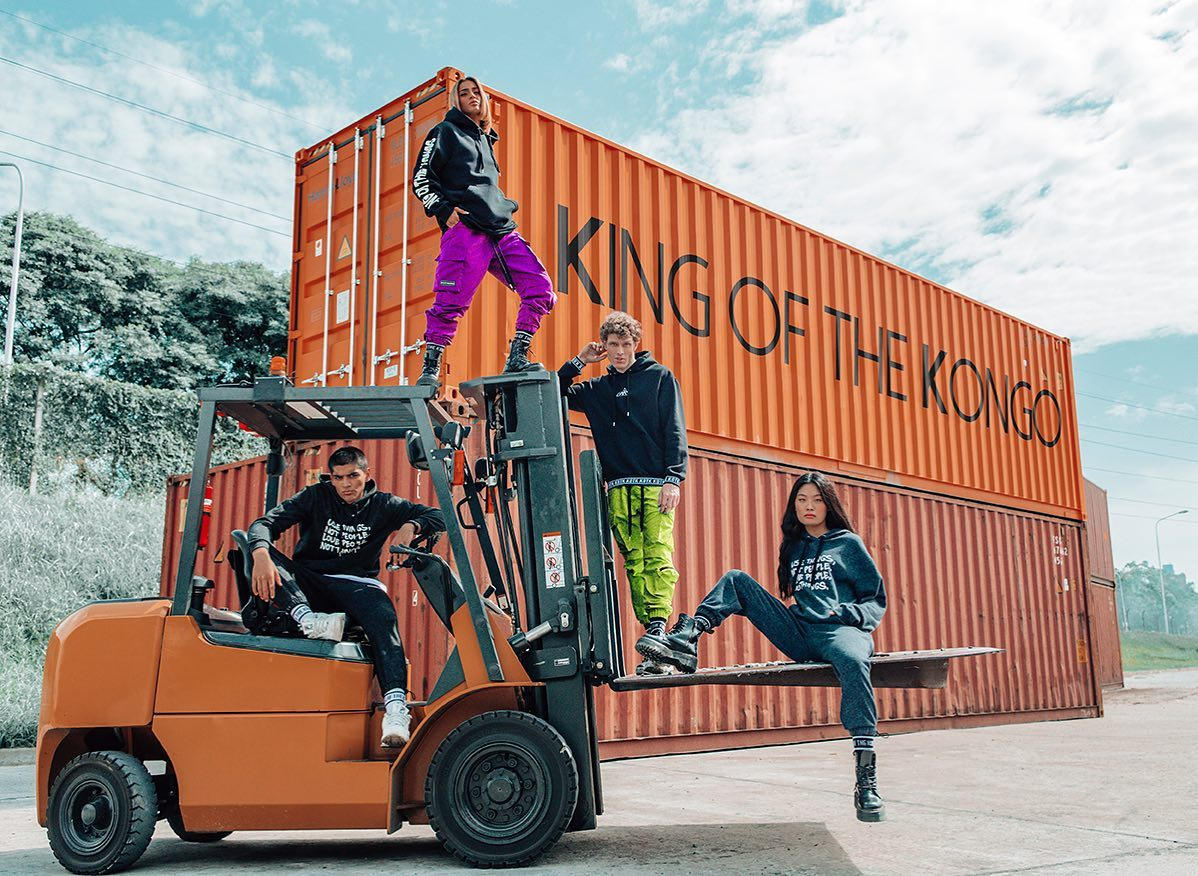
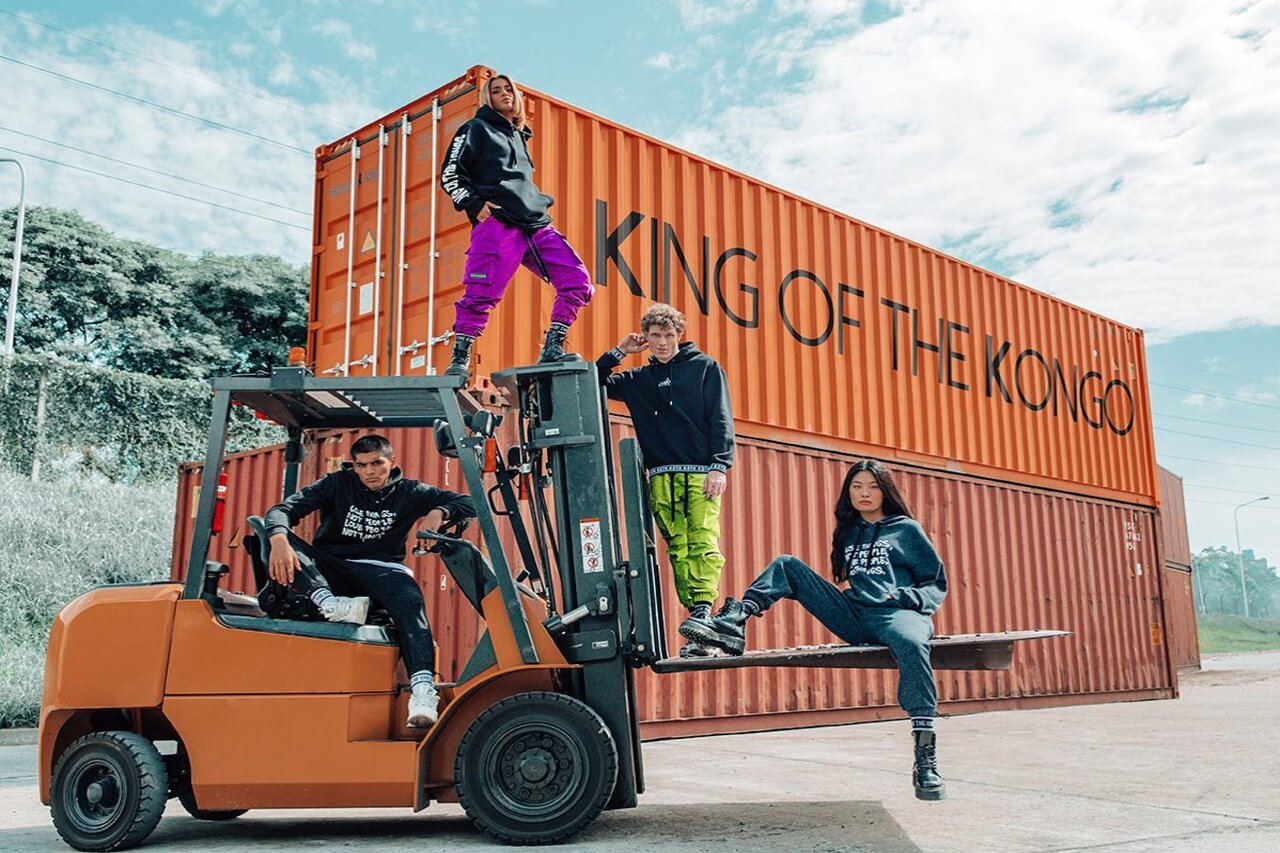
acomode el carousel a mobile

Changed region(s): [[0.4633, 0.5791, 0.525, 0.762], [0.3706, 0.5182, 0.4324, 0.7011], [0.6486, 0.6401, 0.6795, 0.6706]]

diff --git a/css/style.min.css b/css/style.min.css
@@ -1,2 +1,2 @@
-header{background-image:url(../imag/kongo.png);background-repeat:repeat-x;background-position-y:3em;background-size:cover;background-repeat:no-repeat;background:#3f5efb;background:linear-gradient(90deg, rgba(63,94,251,0.857581) 30%, rgba(131,86,204,0.846376) 48%, rgba(252,70,107,0.80716) 70%);filter:progid:DXImageTransform.Microsoft.gradient(startColorstr="#3f5efb", endColorstr="#fc466b", GradientType=1)}header .Logo{border:#000 outset 0.3125em;border-radius:1.5em;animation-name:Logo;animation-delay:0s;animation-duration:3s;margin-top:2em}@keyframes Logo{0%{opacity:0}100%{opacity:100%}}header h1{color:#000;font-family:'Caveat', cursive;font-size:3em;font-weight:bold;margin-top:1em;margin-bottom:0.5em}header .Logan{color:#000;font-family:'Caveat', cursive;font-size:2em;font-weight:bold;margin-bottom:1em}.MainNav{margin:0.1em 0em;background:#eeaeca;background:radial-gradient(circle, #eeaeca 0%, #94bbe9 100%);filter:progid:DXImageTransform.Microsoft.gradient(startColorstr="#eeaeca", endColorstr="#94bbe9", GradientType=1);box-shadow:0 2px 5px #000}.MainNav a{display:inline-block;padding:1em;margin:1em;border-radius:1em;font-weight:bold;font-size:1.25em;color:#000}.MainNav a:hover{background-color:#fff;transition:1s;transform:scale(1.1)}.MainNav a:hover{background-color:#fff;transition:1s;transform:scale(1.1)}.MainNav .LogoMini{margin:o;width:60px;height:60px;border:#000 outset .2em;border-radius:1em}.Fotos{margin:0.2em 0em 5em 0em;border:0.5em #3f5efb;border-style:outset}.Fotos .carousel-inner{height:100vh;object-fit:cover;object-position:center}.Galeria img{margin:8em 2em 2em 2em;width:90%;height:90%;border-color:#000;border:0.4em black;border-style:outset;border-radius:0.5em}.Galeria img:hover{transform:scale(1.1);transition:1s}.Galeria p{margin-top:3em;font-family:'Caveat', cursive;font-weight:bold;font-size:2.3em}.Video iframe{margin:20em 5em;border:0.4em black;border-style:solid;border-radius:.5em;object-fit:fill}footer{background-color:#292929}footer .LogoFooter img{height:8em;width:8em}footer .Links{list-style:none;margin-top:1em}footer .Links a{color:#fff;text-decoration:none;display:inline-block;font-family:'Caveat', cursive;font-size:2em;font-weight:bold;margin:0.2em}footer .Links a:hover{transition:1s;transform:scale(1.3)}footer .SocialMedia h2{font-family:'Caveat', cursive;color:#fff;font-size:2em;font-weight:bold}footer .SocialMedia ul{list-style:none}footer .SocialMedia ul li{margin:1em}footer .SocialMedia ul li a i{font-size:2em}footer .SocialMedia .Redes--facebook{color:#202097}footer .SocialMedia .Redes--instagram{color:rgba(175,37,101,0.938)}footer .SocialMedia .Redes--twitter{color:#38b9c5}.ProductosNav{display:flex;align-items:center;align-content:center}.GaleriaProductos article{width:auto;height:auto;margin-top:8em;margin-bottom:8em}.GaleriaProductos article img{width:90%;height:90%;border:#000 0.4em;border-style:outset;border-radius:0.5em}.GaleriaProductos article img:hover{transform:scale(1.1);transition:1s}.GaleriaProductos article p{margin-top:1em;font-family:'Caveat', cursive;font-weight:bold;font-size:2em}.StoreLocator{margin-bottom:8em}.StoreLocator iframe{border-radius:0.5em}.StoreLocator div{margin-left:3em}.StoreLocator div p{margin:1.25em;font-size:1.7em;font-weight:bold;text-decoration:underline;font-family:'Caveat', cursive}.Fundador{margin:1em 1em 7em 1em;border:0.5em #3f5efb;border-style:solid;background:#eeaeca;background:radial-gradient(circle, #eeaeca 0%, #94bbe9 100%);filter:progid:DXImageTransform.Microsoft.gradient(startColorstr="#eeaeca", endColorstr="#94bbe9", GradientType=1)}.Fundador__Titulo{color:#000;text-decoration:underline;font-family:'Caveat', cursive;font-weight:bold}.Fundador__Texto{text-align:justify;word-spacing:0.1px;word-wrap:break-word}.Origen{margin:1em 1em 7em 1em;border:0.5em #3f5efb;border-style:solid;background:#eeaeca;background:radial-gradient(circle, #eeaeca 0%, #94bbe9 100%);filter:progid:DXImageTransform.Microsoft.gradient(startColorstr="#eeaeca", endColorstr="#94bbe9", GradientType=1)}.Origen__Titulo{color:#000;text-decoration:underline;font-family:'Caveat', cursive;font-weight:bold}.Origen__texto{text-align:justify;word-spacing:0.1px;word-wrap:break-word}.Preguntas{margin:1em 1em 7em 1em;border:0.4em black;border-style:solid;background:#eeaeca;background:radial-gradient(circle, #eeaeca 0%, #94bbe9 100%);filter:progid:DXImageTransform.Microsoft.gradient(startColorstr="#eeaeca", endColorstr="#94bbe9", GradientType=1)}.Preguntas__Titulo{color:#000;text-decoration:underline;font-family:'Caveat', cursive;font-weight:bold}.Preguntas__Frecuentes{list-style-position:inside;font-weight:bold}.TalleHombre{margin:8em 0em}.TalleHombre div h3{color:#000;font-family:'Caveat', cursive;font-weight:bold;margin:2em}.TalleHombre div img{padding:2em;border:0.4em black;border-radius:.5em;border-style:solid}.TalleHombre div .table{margin-top:5em;border:0.4em black;border-style:solid;width:50%;background-color:#eeaeca;background:radial-gradient(circle, #eeaeca 0%, #94bbe9 100%);filter:progid:DXImageTransform.Microsoft.gradient(startColorstr="#eeaeca", endColorstr="#94bbe9", GradientType=1)}.TalleMujer{margin:8em}.TalleMujer h3{color:#000;font-family:'Caveat', cursive;font-weight:bold;margin:2em}.TalleMujer img{padding:2em;border:0.4em black;border-radius:.5em;border-style:solid}.TalleMujer div .table{margin-top:5em;border:0.4em black;border-style:solid;width:50%;background-color:#eeaeca;background:radial-gradient(circle, #eeaeca 0%, #94bbe9 100%);filter:progid:DXImageTransform.Microsoft.gradient(startColorstr="#eeaeca", endColorstr="#94bbe9", GradientType=1)}.Login{margin:1em}.Login__fieldset{border:0.2em #3f5efb;border-style:solid;border-radius:.5em}html{color:#000;font-family:'Roboto', sans-serif}html .Subtitutlos{color:#000;font-family:'Caveat', cursive;font-weight:bold;margin:2em 0em}
+header{background-image:url(../imag/kongo.png);background-repeat:repeat-x;background-position-y:3em;background-size:cover;background-repeat:no-repeat;background:#3f5efb;background:linear-gradient(90deg, rgba(63,94,251,0.857581) 30%, rgba(131,86,204,0.846376) 48%, rgba(252,70,107,0.80716) 70%);filter:progid:DXImageTransform.Microsoft.gradient(startColorstr="#3f5efb", endColorstr="#fc466b", GradientType=1)}header .Logo{border:#000 outset 0.3125em;border-radius:1.5em;animation-name:Logo;animation-delay:0s;animation-duration:3s;margin-top:2em}@keyframes Logo{0%{opacity:0}100%{opacity:100%}}header h1{color:#000;font-family:'Caveat', cursive;font-size:3em;font-weight:bold;margin-top:1em;margin-bottom:0.5em}header .Logan{color:#000;font-family:'Caveat', cursive;font-size:2em;font-weight:bold;margin-bottom:1em}.MainNav{margin:0.1em 0em;background:#eeaeca;background:radial-gradient(circle, #eeaeca 0%, #94bbe9 100%);filter:progid:DXImageTransform.Microsoft.gradient(startColorstr="#eeaeca", endColorstr="#94bbe9", GradientType=1);box-shadow:0 2px 5px #000}.MainNav a{display:inline-block;padding:1em;margin:1em;border-radius:1em;font-weight:bold;font-size:1.25em;color:#000}.MainNav a:hover{background-color:#fff;transition:1s;transform:scale(1.1)}.MainNav a:hover{background-color:#fff;transition:1s;transform:scale(1.1)}.MainNav .LogoMini{margin:o;width:60px;height:60px;border:#000 outset .2em;border-radius:1em}.Fotos{margin:0.2em 0em 5em 0em;border:0.5em #3f5efb;border-style:outset}.Fotos .carousel-inner{max-height:100vh;object-fit:cover;object-position:center}.Galeria img{margin:8em 2em 2em 2em;width:90%;height:90%;border-color:#000;border:0.4em black;border-style:outset;border-radius:0.5em}.Galeria img:hover{transform:scale(1.1);transition:1s}.Galeria p{margin-top:3em;font-family:'Caveat', cursive;font-weight:bold;font-size:2.3em}.Video iframe{margin:20em 5em;border:0.4em black;border-style:solid;border-radius:.5em;object-fit:fill}footer{background-color:#292929}footer .LogoFooter img{height:8em;width:8em}footer .Links{list-style:none;margin-top:1em}footer .Links a{color:#fff;text-decoration:none;display:inline-block;font-family:'Caveat', cursive;font-size:2em;font-weight:bold;margin:0.2em}footer .Links a:hover{transition:1s;transform:scale(1.3)}footer .SocialMedia h2{font-family:'Caveat', cursive;color:#fff;font-size:2em;font-weight:bold}footer .SocialMedia ul{list-style:none}footer .SocialMedia ul li{margin:1em}footer .SocialMedia ul li a i{font-size:2em}footer .SocialMedia .Redes--facebook{color:#202097}footer .SocialMedia .Redes--instagram{color:rgba(175,37,101,0.938)}footer .SocialMedia .Redes--twitter{color:#38b9c5}.ProductosNav{display:flex;align-items:center;align-content:center}.GaleriaProductos article{width:auto;height:auto;margin-top:8em;margin-bottom:8em}.GaleriaProductos article img{width:90%;height:90%;border:#000 0.4em;border-style:outset;border-radius:0.5em}.GaleriaProductos article img:hover{transform:scale(1.1);transition:1s}.GaleriaProductos article p{margin-top:1em;font-family:'Caveat', cursive;font-weight:bold;font-size:2em}.StoreLocator{margin-bottom:8em}.StoreLocator iframe{border-radius:0.5em}.StoreLocator div{margin-left:3em}.StoreLocator div p{margin:1.25em;font-size:1.7em;font-weight:bold;text-decoration:underline;font-family:'Caveat', cursive}.Fundador{margin:1em 1em 7em 1em;border:0.5em #3f5efb;border-style:solid;background:#eeaeca;background:radial-gradient(circle, #eeaeca 0%, #94bbe9 100%);filter:progid:DXImageTransform.Microsoft.gradient(startColorstr="#eeaeca", endColorstr="#94bbe9", GradientType=1)}.Fundador__Titulo{color:#000;text-decoration:underline;font-family:'Caveat', cursive;font-weight:bold}.Fundador__Texto{text-align:justify;word-spacing:0.1px;word-wrap:break-word}.Origen{margin:1em 1em 7em 1em;border:0.5em #3f5efb;border-style:solid;background:#eeaeca;background:radial-gradient(circle, #eeaeca 0%, #94bbe9 100%);filter:progid:DXImageTransform.Microsoft.gradient(startColorstr="#eeaeca", endColorstr="#94bbe9", GradientType=1)}.Origen__Titulo{color:#000;text-decoration:underline;font-family:'Caveat', cursive;font-weight:bold}.Origen__texto{text-align:justify;word-spacing:0.1px;word-wrap:break-word}.Preguntas{margin:1em 1em 7em 1em;border:0.4em black;border-style:solid;background:#eeaeca;background:radial-gradient(circle, #eeaeca 0%, #94bbe9 100%);filter:progid:DXImageTransform.Microsoft.gradient(startColorstr="#eeaeca", endColorstr="#94bbe9", GradientType=1)}.Preguntas__Titulo{color:#000;text-decoration:underline;font-family:'Caveat', cursive;font-weight:bold}.Preguntas__Frecuentes{list-style-position:inside;font-weight:bold}.TalleHombre{margin:8em 0em}.TalleHombre div h3{color:#000;font-family:'Caveat', cursive;font-weight:bold;margin:2em}.TalleHombre div img{padding:2em;border:0.4em black;border-radius:.5em;border-style:solid}.TalleHombre div .table{margin-top:5em;border:0.4em black;border-style:solid;width:50%;background-color:#eeaeca;background:radial-gradient(circle, #eeaeca 0%, #94bbe9 100%);filter:progid:DXImageTransform.Microsoft.gradient(startColorstr="#eeaeca", endColorstr="#94bbe9", GradientType=1)}.TalleMujer{margin:8em}.TalleMujer h3{color:#000;font-family:'Caveat', cursive;font-weight:bold;margin:2em}.TalleMujer img{padding:2em;border:0.4em black;border-radius:.5em;border-style:solid}.TalleMujer div .table{margin-top:5em;border:0.4em black;border-style:solid;width:50%;background-color:#eeaeca;background:radial-gradient(circle, #eeaeca 0%, #94bbe9 100%);filter:progid:DXImageTransform.Microsoft.gradient(startColorstr="#eeaeca", endColorstr="#94bbe9", GradientType=1)}.Login{margin:1em}.Login__fieldset{border:0.2em #3f5efb;border-style:solid;border-radius:.5em}html{color:#000;font-family:'Roboto', sans-serif}html .Subtitutlos{color:#000;font-family:'Caveat', cursive;font-weight:bold;margin:2em 0em}
 /*# sourceMappingURL=style.min.css.map */

diff --git a/css/sass/layout/_home.scss b/css/sass/layout/_home.scss
@@ -3,7 +3,7 @@
     border: $border-carrousel;
     border-style: outset;
     .carousel-inner {
-        height: 100vh;
+        max-height: 100vh;
         object-fit: cover;
         object-position: center;
     }

diff --git a/css/style.css b/css/style.css
@@ -93,7 +93,7 @@ header .Logan {
 }
 
 .Fotos .carousel-inner {
-  height: 100vh;
+  max-height: 100vh;
   object-fit: cover;
   object-position: center;
 }
